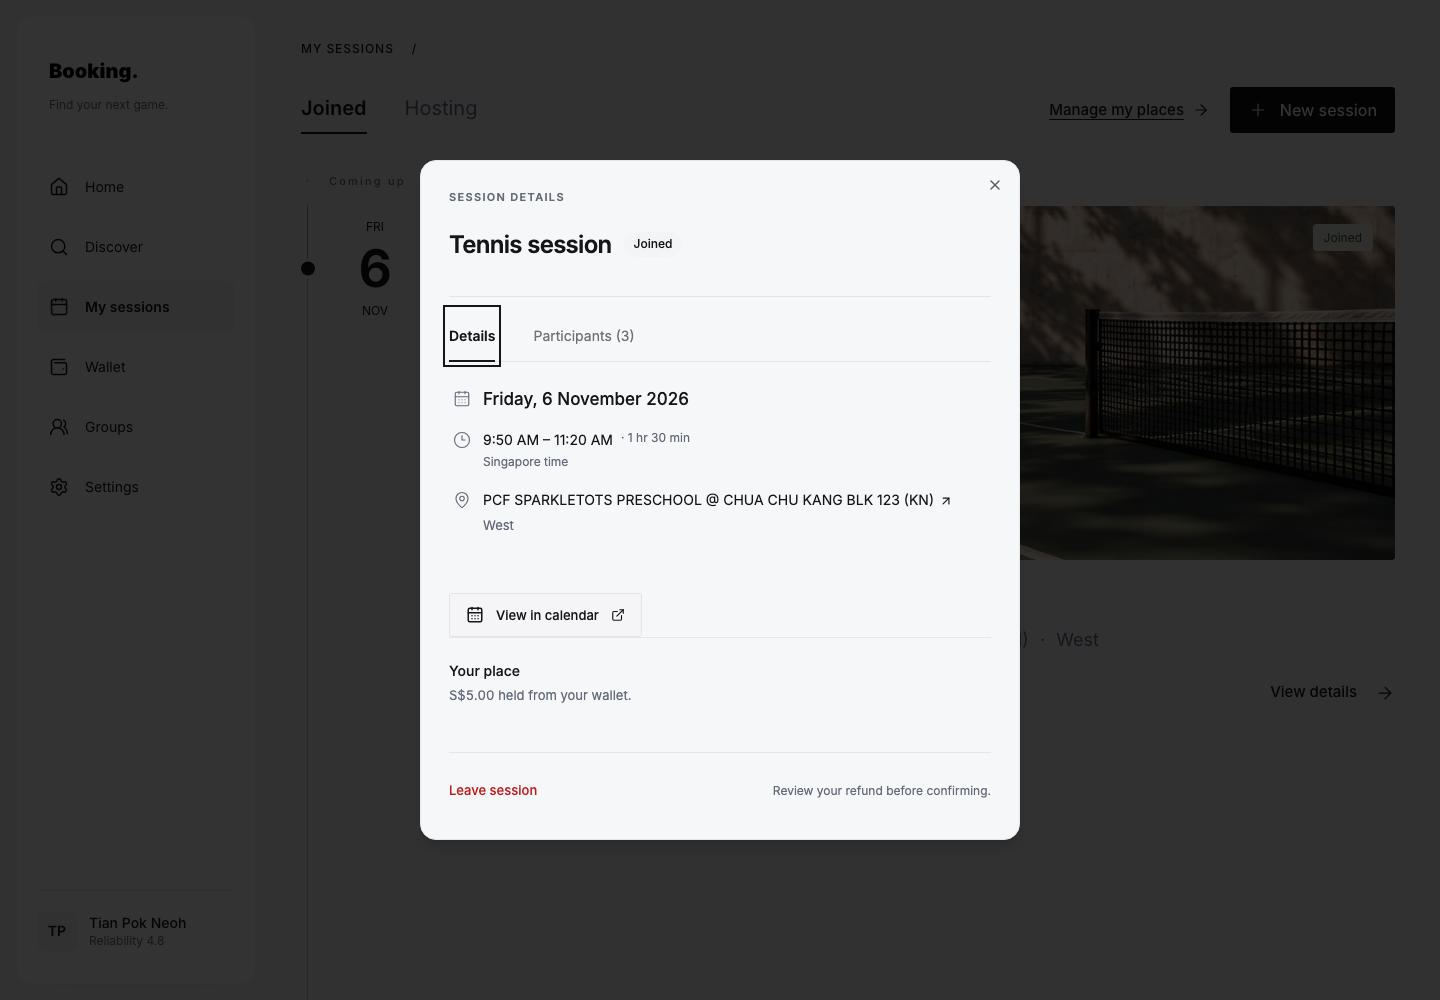
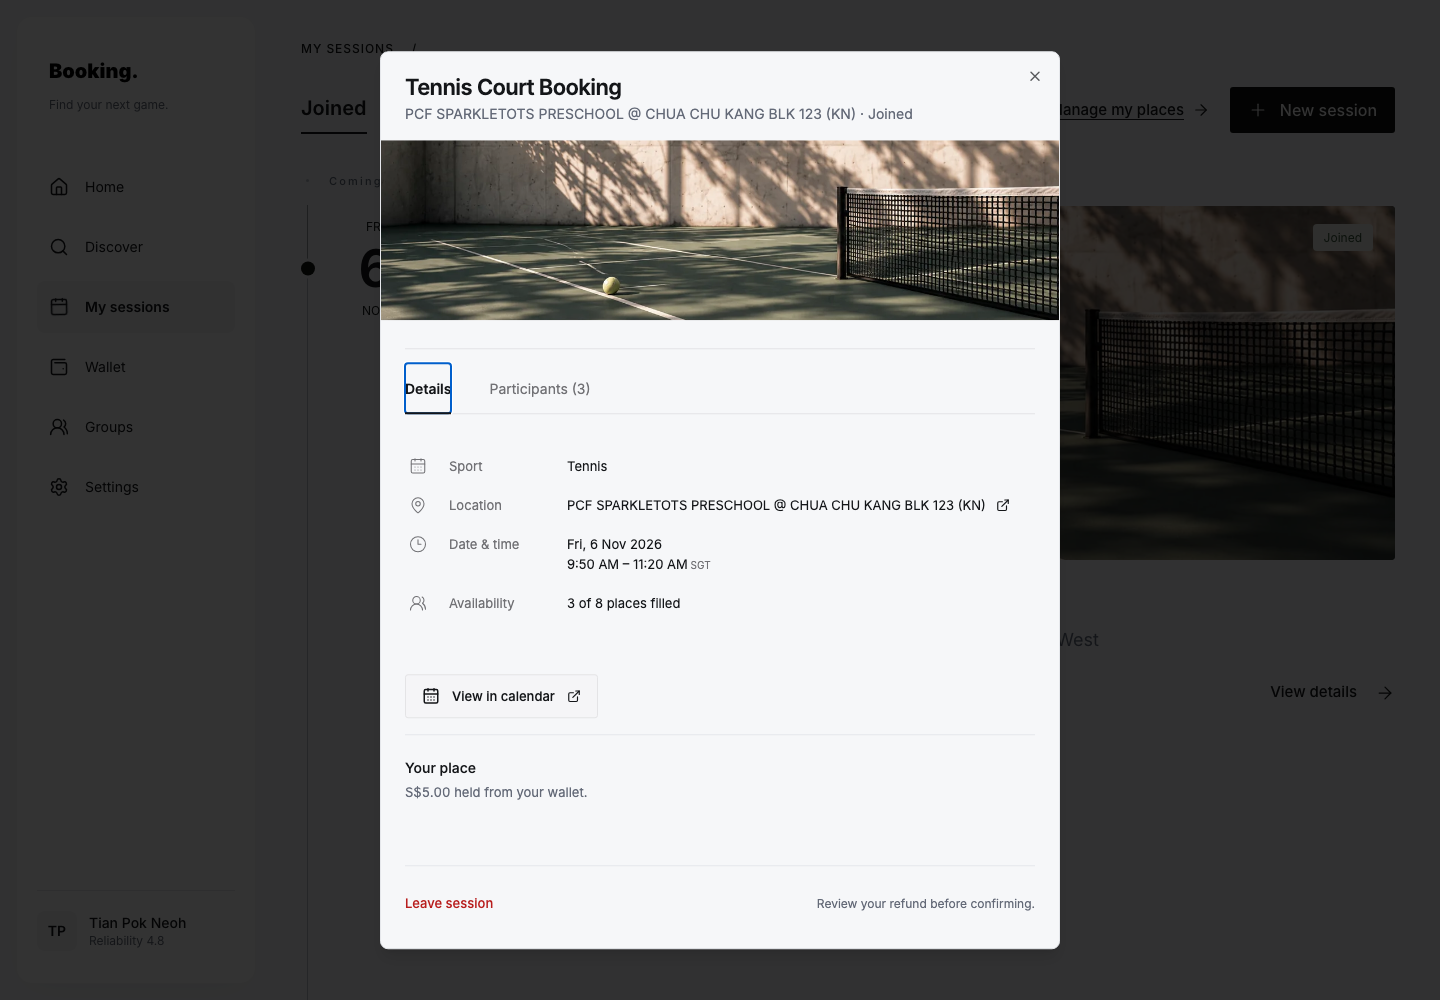
fix(sessions): preserve the original joined session modal

Changed region(s): [[0.25, 0.031, 0.75, 0.961]]

diff --git a/app/sessions/_components/sessions-controller.stories.tsx b/app/sessions/_components/sessions-controller.stories.tsx
@@ -119,11 +119,11 @@ async function openSessionDetails(trigger: HTMLElement) {
   const row = trigger.closest<HTMLElement>("[data-session-id]");
   if (row) await waitFor(() => expect(Number(row.style.getPropertyValue("--expansion"))).toBe(1));
   await userEvent.click(trigger);
-  return within(await screen.findByRole("dialog", { name: "Tennis session" }));
+  return within(await screen.findByRole("dialog", { name: "Tennis Court Booking" }));
 }
 
 async function closeSessionDetails() {
-  await userEvent.click(within(screen.getByRole("dialog", { name: "Tennis session" })).getByRole("button", { name: "Close" }));
+  await userEvent.click(within(screen.getByRole("dialog", { name: "Tennis Court Booking" })).getByRole("button", { name: "Close" }));
   await waitFor(() => expect(screen.queryByRole("dialog")).not.toBeInTheDocument());
 }
 
@@ -393,7 +393,7 @@ export const AccountChangeClosesOpenSession: Story = {
   play: async ({ canvas }) => {
     const first = within(await canvas.findByRole("article", { name: "Tennis Court Booking at Bukit Timah Community Club" }));
     await userEvent.click(first.getByRole("button", { name: "View details" }));
-    await screen.findByRole("dialog", { name: "Tennis session" });
+    await screen.findByRole("dialog", { name: "Tennis Court Booking" });
     // Authentication can change while a modal is open, without using inert background controls.
     if (!changeAccount) throw new Error("The account harness has not mounted.");
     changeAccount("second-account");
@@ -403,7 +403,7 @@ export const AccountChangeClosesOpenSession: Story = {
     await canvas.findByRole("article", { name: "Tennis Court Booking at Bukit Timah Community Club" });
     await expect(screen.queryByRole("dialog")).not.toBeInTheDocument();
     await userEvent.click(canvas.getByRole("button", { name: "View details" }));
-    await screen.findByRole("dialog", { name: "Tennis session" });
+    await screen.findByRole("dialog", { name: "Tennis Court Booking" });
     await userEvent.keyboard("{Escape}");
     await waitFor(() => expect(screen.queryByRole("dialog")).not.toBeInTheDocument());
   },
@@ -442,7 +442,7 @@ export const ViewedSessionSurvivesPendingAndFailedRefresh: Story = {
     await userEvent.click(await canvas.findByRole("button", { name: "Show Tennis Court Booking, 21 Oct 2026" }));
     const first = within(await canvas.findByRole("article", { name: "Tennis Court Booking at Bukit Timah Community Club" }));
     await userEvent.click(first.getByRole("button", { name: "View details" }));
-    const dialog = await screen.findByRole("dialog", { name: "Tennis session" });
+    const dialog = await screen.findByRole("dialog", { name: "Tennis Court Booking" });
     // Finding the dialog can precede its opening animation becoming visible.
     await waitFor(() => expect(dialog).toBeVisible());
     const queryKey = [...sessionFeedQueryKey, "player", "joined"];
@@ -471,7 +471,7 @@ export const SuccessfulRefreshClosesMissingViewedSession: Story = {
     await userEvent.click(await canvas.findByRole("button", { name: "Show Tennis Court Booking, 21 Oct 2026" }));
     const first = within(await canvas.findByRole("article", { name: "Tennis Court Booking at Bukit Timah Community Club" }));
     await userEvent.click(first.getByRole("button", { name: "View details" }));
-    await screen.findByRole("dialog", { name: "Tennis session" });
+    await screen.findByRole("dialog", { name: "Tennis Court Booking" });
     const queryKey = [...sessionFeedQueryKey, "player", "joined"];
     reply = async () => response(joinedSessions.slice(1, 2));
     await client.refetchQueries({ queryKey, exact: true });
@@ -485,7 +485,7 @@ export const SuccessfulRefreshClosesMissingViewedSession: Story = {
     await userEvent.click(canvas.getByRole("button", { name: "Show Tennis Court Booking, 21 Oct 2026" }));
     await waitFor(() => expect(restored.getByRole("button", { name: "View details" })).toBeVisible());
     await openSessionDetails(restored.getByRole("button", { name: "View details" }));
-    const dialog = within(await screen.findByRole("dialog", { name: "Tennis session" }));
+    const dialog = within(await screen.findByRole("dialog", { name: "Tennis Court Booking" }));
     await userEvent.click(dialog.getByRole("button", { name: "Close" }));
     await waitFor(() => expect(screen.queryByRole("dialog")).not.toBeInTheDocument());
   },

diff --git a/app/sessions/_components/sessions-controller.tsx b/app/sessions/_components/sessions-controller.tsx
@@ -3,6 +3,7 @@
 import { useInfiniteQuery, useQuery, useQueryClient } from "@tanstack/react-query";
 import { useRouter, useSearchParams } from "next/navigation";
 import { useCallback, useEffect, useMemo, useRef, useState } from "react";
+import Image from "next/image";
 import Link from "next/link";
 import { Dialog, DialogContent, DialogDescription, DialogHeader, DialogTitle } from "@/components/ui/dialog";
 import { Money } from "@/components/ui/money";
@@ -19,7 +20,7 @@ import { hostedSessionsQueryKey } from "./hosted-sessions-controller";
 import { SessionDetails, SessionsView } from "./sessions-view";
 import { SessionsUiProvider, useSessionsUiStore } from "./sessions-ui-provider";
 import { createSessionsUrlStorage, readSessionsUrlState } from "./sessions-url-storage";
-import { sessionCanLeave, sessionStatus } from "./session-display";
+import { sessionArtwork, sessionCanLeave, sessionStatus, sessionTitle } from "./session-display";
 import styles from "./sessions.module.css";
 import details from "./session-details.module.css";
 import { SessionDetailsSummary } from "./session-details-summary";
@@ -130,24 +131,25 @@ function SessionsContent({ userId, actions, loadFeed = defaultLoadFeed, loadHost
       loading={feed.isPending || signIn || (restoringSelection && !feed.isError)} error={!signIn && feed.isError ? feed.error instanceof SessionFeedLoadError && feed.error.kind === "unavailable" ? "Your sessions are temporarily unavailable." : "We couldn’t load your sessions. Please try again." : undefined}
       loadingMore={feed.isFetchingNextPage} hasMore={feed.hasNextPage} onLoadMore={loadMore} onRetry={retry} onOpenSession={(session) => { sessionTrigger.current = document.activeElement instanceof HTMLElement ? document.activeElement : null; openSession(session.sessionId); }} />
     <Dialog open={mode.status === "viewingSession" && selected !== null} onOpenChange={(open) => { if (!open) closeSession(); }}>
-      <DialogContent className={`${styles.dialogContent} ${details.dialog}`} onCloseAutoFocus={(event) => {
+      <DialogContent className={selected?.role === "HOST" ? `${styles.dialogContent} ${details.dialog}` : `${styles.dialogContent} sm:max-w-[680px]`} onCloseAutoFocus={(event) => {
         event.preventDefault();
         if (sessionTrigger.current?.isConnected) sessionTrigger.current.focus({ preventScroll: true });
         else document.getElementById("sessions-heading")?.focus({ preventScroll: true });
       }}>
         {selected && <>
-          <DialogHeader className={details.header}>
+          {selected.role === "HOST" ? <DialogHeader className={details.header}>
             <p className={details.eyebrow}>Session details</p>
             <div className={details.titleRow}><DialogTitle className={details.title}>{selected.sport} session</DialogTitle>
-              <span className={details.badge}>{selected.role === "HOST" ? selected.section === "upcoming" ? "Hosting" : `Hosted · ${sessionStatus(selected)}` : sessionStatus(selected)}</span>
+              <span className={details.badge}>{selected.section === "upcoming" ? "Hosting" : `Hosted · ${sessionStatus(selected)}`}</span>
             </div>
             <DialogDescription className="sr-only">When and where you’re playing, and your session actions.</DialogDescription>
-          </DialogHeader>
+          </DialogHeader> : <DialogHeader><DialogTitle className={styles.dialogHeading}>{sessionTitle(selected)}</DialogTitle><DialogDescription>{selected.venueName} · {sessionStatus(selected)}</DialogDescription></DialogHeader>}
           {selected.role === "HOST" ? <>
             <SessionDetailsSummary session={selected} />
             <HostedSessionManagement userId={userId} session={selected} loadHosted={loadHosted} onRefresh={refresh} onCancel={(session, trigger) => { cancellationTrigger.current = trigger; setCancelling(session); }} />
           </> : <>
-            <SessionDetails session={selected} footer={false} compact />
+            <div className={styles.dialogHero}><Image src={sessionArtwork(selected)} alt="" fill sizes="680px" className={styles.photo} /></div>
+            <SessionDetails session={selected} footer={false} />
             <SessionParticipantControls userId={userId} session={selected} onRefresh={refresh} available={sessionCanLeave(selected, first?.asOf ?? new Date().toISOString())} />
           </>}
         </>}

diff --git a/app/sessions/_components/session-details.stories.tsx b/app/sessions/_components/session-details.stories.tsx
@@ -70,9 +70,9 @@ export const Joined: Story = {
   args: { loadFeed: async () => ({ sessions: [{ ...session, role: "PARTICIPANT", participationStatus: "COMMITTED", participantCount: 3 }], nextCursor: null, asOf: "2026-10-29T08:00:00+08:00", upcomingCount: 1, pastCount: 0 }) },
   play: async ({ canvas }) => {
     await userEvent.click(await canvas.findByRole("button", { name: window.innerWidth < 768 ? `View Tennis Court Booking at ${session.venueName}, 6 Nov 2026` : "View details" }));
-    const dialog = within(await screen.findByRole("dialog", { name: "Tennis session" }));
+    const dialog = within(await screen.findByRole("dialog", { name: "Tennis Court Booking" }));
     await waitFor(() => expect(dialog.getByRole("button", { name: "Leave session" })).toBeVisible());
-    await expect(dialog.getByText("Joined", { exact: true })).toBeVisible();
+    await expect(dialog.getByText(`${session.venueName} · Joined`)).toBeVisible();
     await expect(dialog.queryByRole("button", { name: "Cancel session" })).not.toBeInTheDocument();
     await expect(dialog.queryByRole("button", { name: "Copy link" })).not.toBeInTheDocument();
   },
@@ -83,8 +83,37 @@ export const InProgress: Story = {
   args: { loadFeed: async () => ({ sessions: [{ ...session, role: "PARTICIPANT", participationStatus: "COMMITTED", participantCount: 3 }], nextCursor: null, asOf: "2026-11-06T10:15:00+08:00", upcomingCount: 1, pastCount: 0 }) },
   play: async ({ canvas }) => {
     await userEvent.click(await canvas.findByRole("button", { name: "View details" }));
-    const dialog = within(await screen.findByRole("dialog", { name: "Tennis session" }));
-    await waitFor(() => expect(dialog.getByText("Friday, 6 November 2026")).toBeVisible());
+    const dialog = within(await screen.findByRole("dialog", { name: "Tennis Court Booking" }));
+    await waitFor(() => expect(dialog.getByRole("tabpanel")).toHaveTextContent("Fri, 6 Nov 2026"));
     await expect(dialog.queryByRole("button", { name: "Leave session" })).not.toBeInTheDocument();
   },
 };
+
+/** Protects the original Joined dialog independently of the host redesign. */
+export const JoinedCompleted: Story = {
+  ...Joined,
+  args: { loadFeed: async () => ({ sessions: [{ ...session, venueName: "CLEMENTI CASCADIA", role: "PARTICIPANT", participationStatus: "COMMITTED", participantCount: 4, capacity: 4, status: "SETTLED", section: "past", startAt: "2026-10-29T10:19:00+08:00", endAt: "2026-10-29T11:19:00+08:00" }], nextCursor: null, asOf: "2026-10-29T12:00:00+08:00", upcomingCount: 0, pastCount: 1 }) },
+  play: async ({ canvas }) => {
+    const trigger = await canvas.findByRole("button", { name: window.innerWidth < 768 ? "View Tennis Court Booking at CLEMENTI CASCADIA, 29 Oct 2026" : "View details" });
+    await userEvent.click(trigger);
+    const element = await screen.findByRole("dialog", { name: "Tennis Court Booking" });
+    const dialog = within(element);
+    await waitFor(() => expect(dialog.getByText("CLEMENTI CASCADIA · Completed")).toBeVisible());
+    const photo = element.querySelector("img");
+    await expect(photo).not.toBeNull();
+    await expect(photo).toBeVisible();
+    await expect(dialog.getByText("4 of 4 places filled")).toBeVisible();
+    await expect(dialog.getByRole("link", { name: /View in calendar/ })).toHaveAttribute("href", expect.stringContaining("calendar.google.com"));
+    const participants = dialog.getByRole("tab", { name: "Participants (4)" });
+    await userEvent.click(participants);
+    await expect(dialog.getByRole("tabpanel")).toHaveTextContent("4 players have a place in this session.");
+    await userEvent.keyboard("{Home}");
+    await expect(dialog.getByRole("tab", { name: "Details" })).toHaveAttribute("aria-selected", "true");
+    await expect(dialog.queryByRole("button", { name: "Leave session" })).not.toBeInTheDocument();
+    await expect(dialog.queryByRole("button", { name: "Cancel session" })).not.toBeInTheDocument();
+    await userEvent.click(dialog.getByRole("button", { name: "Close" }));
+    await waitFor(() => expect(trigger).toHaveFocus());
+  },
+};
+
+export const JoinedCompletedMobile: Story = { ...JoinedCompleted, globals: { viewport: { value: "phone", isRotated: false } } };

diff --git a/app/sessions/_components/sessions-view.tsx b/app/sessions/_components/sessions-view.tsx
@@ -1,6 +1,5 @@
 "use client";
 
-import { SessionDetailsSummary } from "./session-details-summary";
 import { ArrowRight, CalendarDays, ChevronDown, ChevronLeft, ChevronRight, Clock3, ExternalLink, MapPin, Plus, UsersRound } from "lucide-react";
 import Image from "next/image";
 import Link from "next/link";
@@ -147,7 +146,7 @@ function Metadata({ session, reveal = true }: { readonly session: SessionFeedIte
   </span>;
 }
 
-export function SessionDetails({ session, footer = true, compact = false, onOpenSession }: { readonly session: SessionFeedItem; readonly footer?: boolean; readonly compact?: boolean; readonly onOpenSession?: (session: SessionFeedItem) => void }) {
+export function SessionDetails({ session, footer = true, onOpenSession }: { readonly session: SessionFeedItem; readonly footer?: boolean; readonly onOpenSession?: (session: SessionFeedItem) => void }) {
   const panel = useSessionsUiStore((state) => state.detailPanels[session.sessionId] ?? "details");
   const selectPanel = useSessionsUiStore((state) => state.selectDetailPanel);
   const setPanel = (next: SessionDetailsPanel) => selectPanel(session.sessionId, next);
@@ -166,7 +165,7 @@ export function SessionDetails({ session, footer = true, compact = false, onOpen
       <button type="button" role="tab" data-panel="participants" tabIndex={panel === "participants" ? 0 : -1} aria-selected={panel === "participants"} onClick={() => setPanel("participants")} id={`${id}-participants-tab`} aria-controls={`${id}-panel`}>Participants ({session.participantCount})</button>
     </div>
     <div role="tabpanel" tabIndex={0} id={`${id}-panel`} aria-labelledby={`${id}-${panel}-tab`} className={styles.detailPanel}>
-      {panel === "details" ? compact ? <SessionDetailsSummary session={session} /> : <dl className={styles.details}>
+      {panel === "details" ? <dl className={styles.details}>
         <div><dt><CalendarDays aria-hidden />Sport</dt><dd>{session.sport}</dd></div>
         <div><dt><MapPin aria-hidden />Location</dt><dd><a href={`https://www.google.com/maps/search/?${new URLSearchParams({ api: "1", query: `${session.venueName}, Singapore` })}`} target="_blank" rel="noreferrer">{session.venueName}<ExternalLink size={14} aria-hidden /><span className="sr-only"> (opens in a new tab)</span></a></dd></div>
         <div><dt><Clock3 aria-hidden />Date &amp; time</dt><dd>{sessionDate(session.startAt).weekday}, {sessionDate(session.startAt).full}<br />{sessionTime(session)}<span className={styles.timezone}> SGT</span></dd></div>

diff --git a/tests/e2e/sessions-timeline.spec.ts b/tests/e2e/sessions-timeline.spec.ts
@@ -462,7 +462,7 @@ test("URL-restored session details keep native dialog scrolling and restore focu
   await page.setViewportSize({ width: 1280, height: 420 });
   const trigger = current(page).getByRole("button", { name: "View details" });
   await trigger.click();
-  const dialog = page.getByRole("dialog", { name: "Tennis session" });
+  const dialog = page.getByRole("dialog", { name: "Tennis Court Booking" });
   await expect(dialog).toBeVisible();
   await expect(dialog.getByRole("tab", { name: "Participants (3)" })).toHaveAttribute("aria-selected", "true");
   await expect.poll(() => dialog.evaluate((element) => element.scrollHeight - element.clientHeight)).toBeGreaterThan(0);

diff --git a/app/sessions/_components/session-details.module.css b/app/sessions/_components/session-details.module.css
@@ -35,6 +35,7 @@
 .danger p { max-width: 250px; color: hsl(var(--muted-foreground)); font-size: 12px; line-height: 1.5; }
 .dialog :is(button, a):focus-visible { outline: 2px solid hsl(var(--ring)); outline-offset: 4px; }
 .dialog button:disabled { opacity: .5; cursor: not-allowed; }
+:global(.dark) .danger { --destructive: 0 85% 72%; }
 :global(.dark) .dialog { --muted-foreground: 220 10% 72%; --destructive: 0 85% 72%; --success: 141 40% 65%; }
 @media (max-width: 480px) {
   .dialog { padding: 24px 20px; }

diff --git a/docs/screenshots/session-details/README.md b/docs/screenshots/session-details/README.md
@@ -8,8 +8,12 @@
 | desktop-dark.png | 1440 × 1000 | Hosting, public, dark |
 | mobile-light.png | 390 × 844 | Hosting, public, light |
 | mobile-dark.png | 390 × 844 | Hosting, public, dark |
-| participant.png | 1440 × 1000 | Joined, with refund-preview entry point |
+| participant.png | 1440 × 1000 | Original Joined photo/details layout, with refund-preview entry point |
+| joined-completed-desktop.png | 1440 × 1000 | Original Joined completed-session modal, dark |
+| joined-completed-mobile.png | 390 × 844 | Original Joined completed-session modal, dark |
 
 Render `Sessions/Session details/Hosting` and `Joined` after running `npm run build-storybook` and serving `storybook-static`. The host screenshots change the viewport and toggle the same `html.dark` class used by the application's theme tokens. All four host screenshots have zero horizontal overflow; the desktop dialog is 600px wide and mobile is 358px wide, with vertical scrolling where needed.
 
 Browser tests cover the real summary and controls, light/dark accessibility, history and in-progress restrictions, current-place checks, refund confirmation, waitlist departure, and keyboard focus restoration. Refund results remain visible until dismissed. Cancellation explicitly returns outstanding held shares to wallets and leaves venue reservation cancellation to the booker.
+
+The compact redesign is scoped to host management. Joined retains its original 680px desktop modal, court photograph, title/status subtitle, Details/Participants tabs, full sport/location/date/availability information, and calendar link. Regression stories cover the completed CLEMENTI CASCADIA session on desktop and mobile. Native dialog scrolling, tab persistence, Escape, and trigger focus restoration were also checked in Chromium and WebKit.

diff --git a/docs/superpowers/plans/2026-10-29-session-details.md b/docs/superpowers/plans/2026-10-29-session-details.md
@@ -19,3 +19,5 @@
 **Baseline:** `origin/main` at `22ae12f`. Typecheck already fails with 12 errors in `app/groups/page.tsx` (missing imports and `displayNames` export). Original checkout's unrelated files are outside this worktree.
 
 **Review outcomes:** Fixed withdrawal results disappearing on immediate feed refresh by refreshing after result dismissal; kept confirmation components mounted across eligibility changes. Restricted participant departures to pre-start active places using the server feed timestamp. Added regressions for both findings and keyboard focus restoration.
+
+**Joined preservation follow-up:** Per the user's screenshot, retain the original participant dialog layout (680px desktop width, court image, original header, full Details/Participants content and calendar link). The 600px redesign applies to host management. Add desktop/mobile completed-session regressions and screenshots; verify native scrolling, panel persistence and closing focus in Chromium and WebKit.
